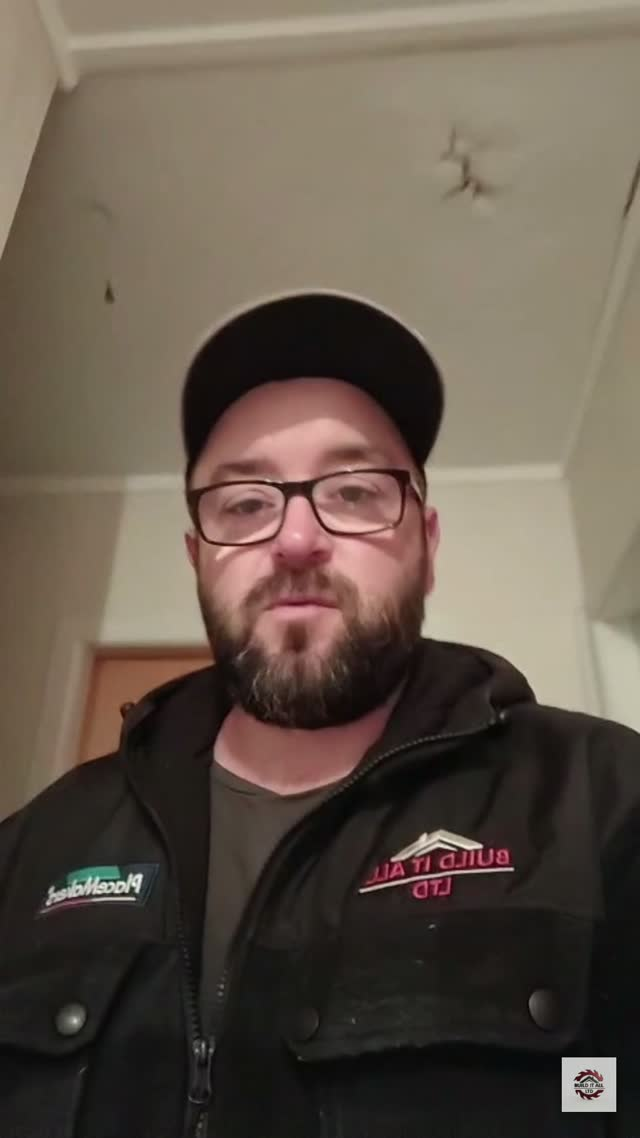
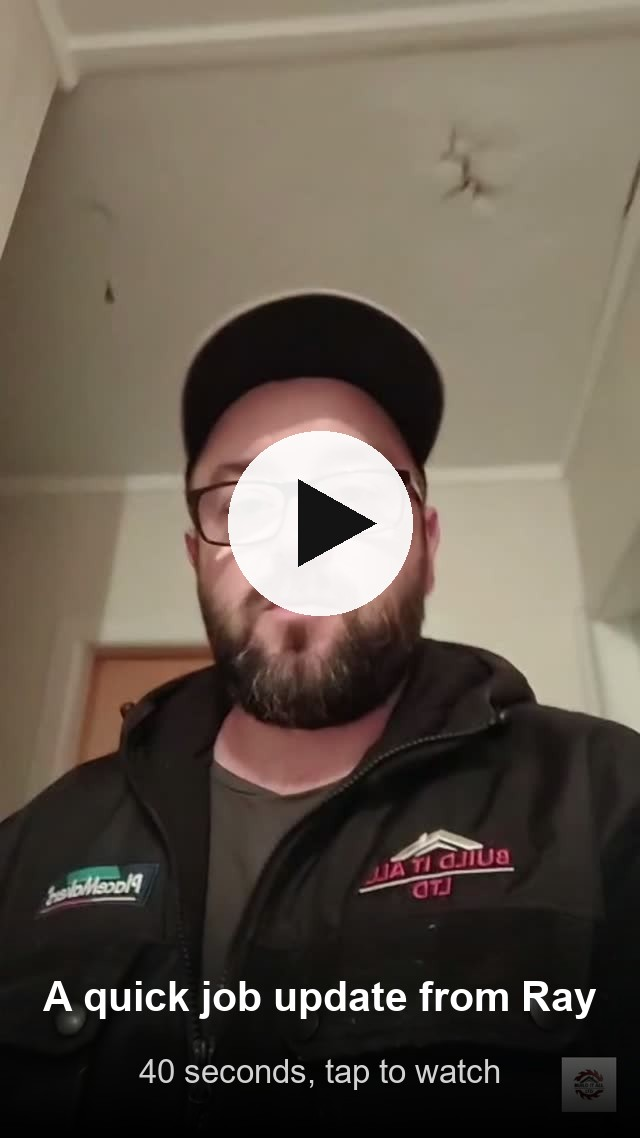
Remove dash from building followup1's video line, add thumbnail overlay
writing-style.md bans dashes outright — the video sentence I added had two.
Also builds the thumbnail into a real video-card style (play button, bottom
gradient, caption + duration), matching lucky-intro-thumb.jpg's look instead
of a bare frame grab.

diff --git a/lib/emailTemplates.ts b/lib/emailTemplates.ts
@@ -176,7 +176,7 @@ export function renderBuildingFollowup1Email(initialSubject: string, video?: Bui
   // sitting after the main copy, not spliced mid-sentence, with a real
   // content thumbnail rather than an invisible tracking pixel.
   const videoBlock = video
-    ? `\n<p>Have a look at this video — Ray talks you through one of the jobs he's doing right now off the back of it.</p>\n<p><a href="${video.videoUrl}"><img src="${video.thumbUrl}" alt="Ray talks through a current job — tap to watch" width="320" style="max-width:320px;width:100%;height:auto;border:0;display:block;border-radius:8px;" /></a></p>`
+    ? `\n<p>Have a look at this video, Ray talks you through one of the jobs he's doing right now off the back of it.</p>\n<p><a href="${video.videoUrl}"><img src="${video.thumbUrl}" alt="Ray talks through a current job, tap to watch" width="320" style="max-width:320px;width:100%;height:auto;border:0;display:block;border-radius:8px;" /></a></p>`
     : "";
   return {
     subject: `re: ${initialSubject}`,
